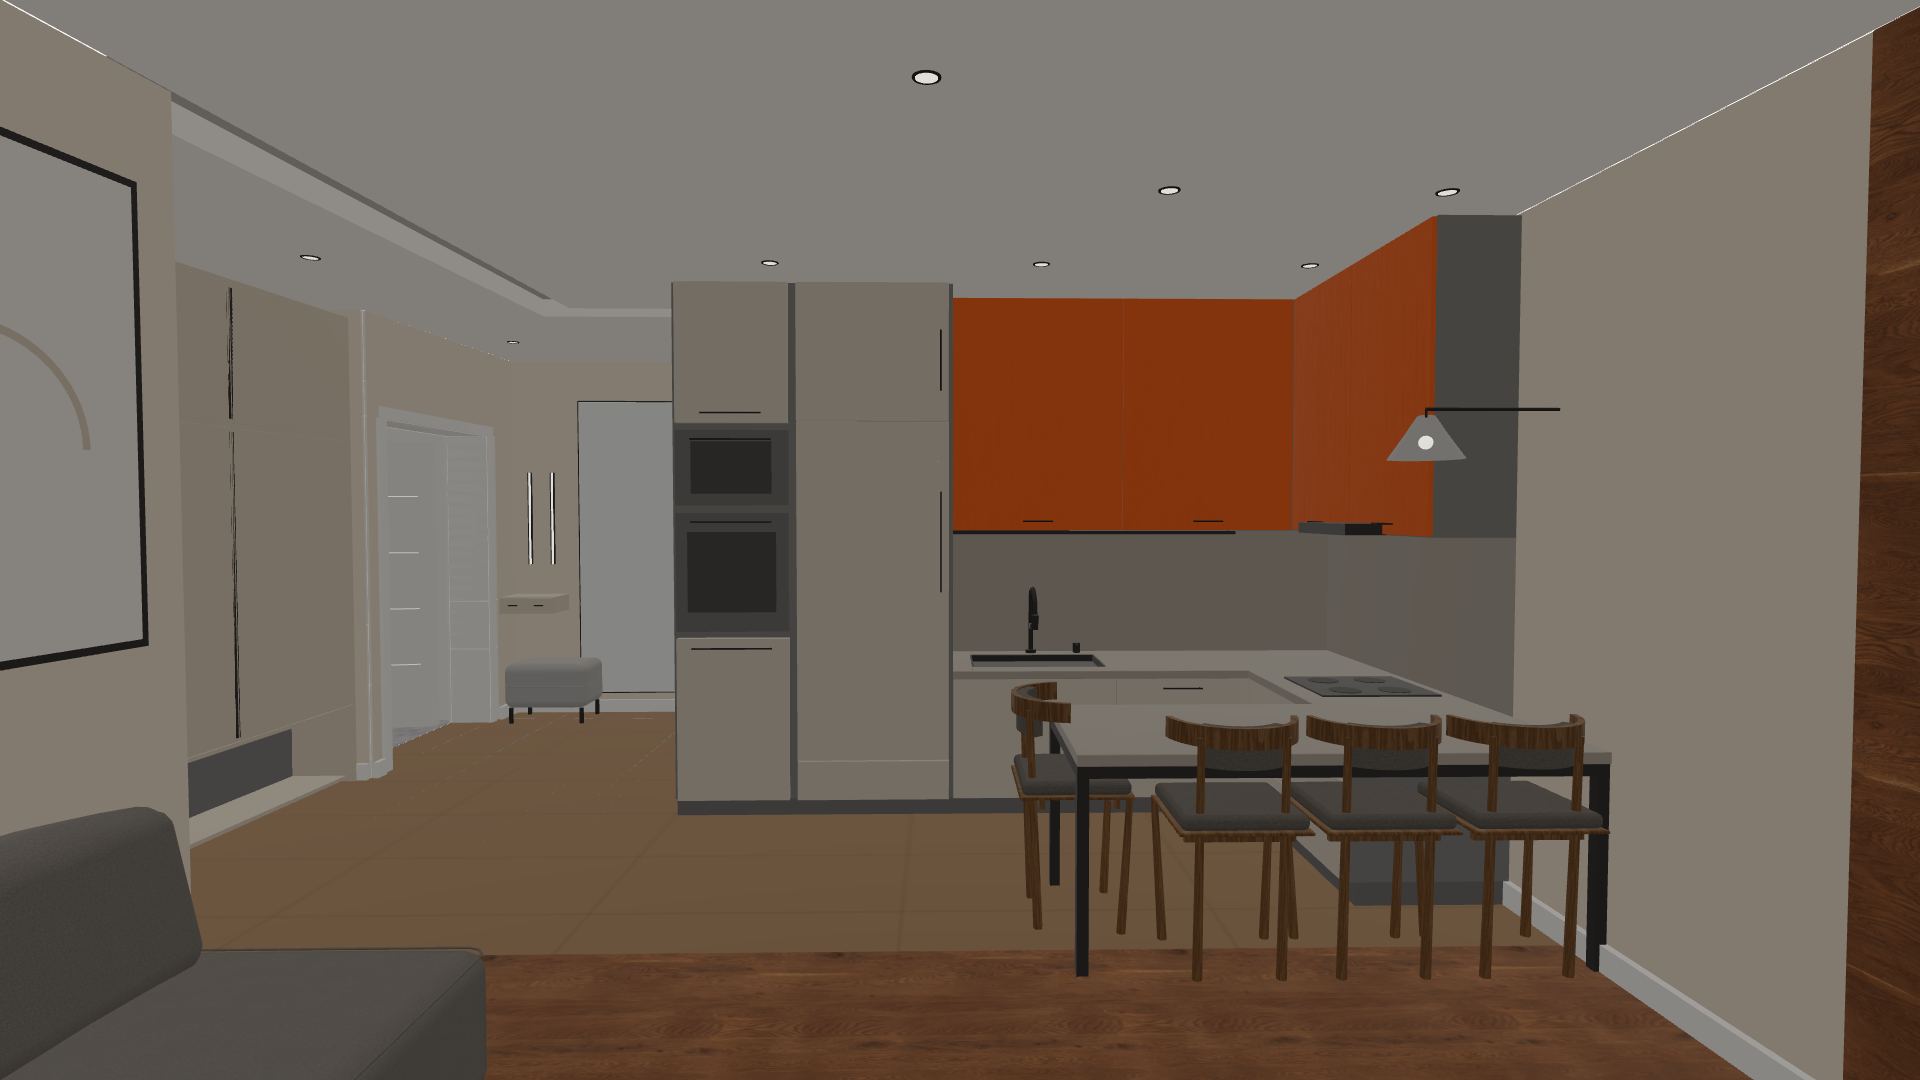
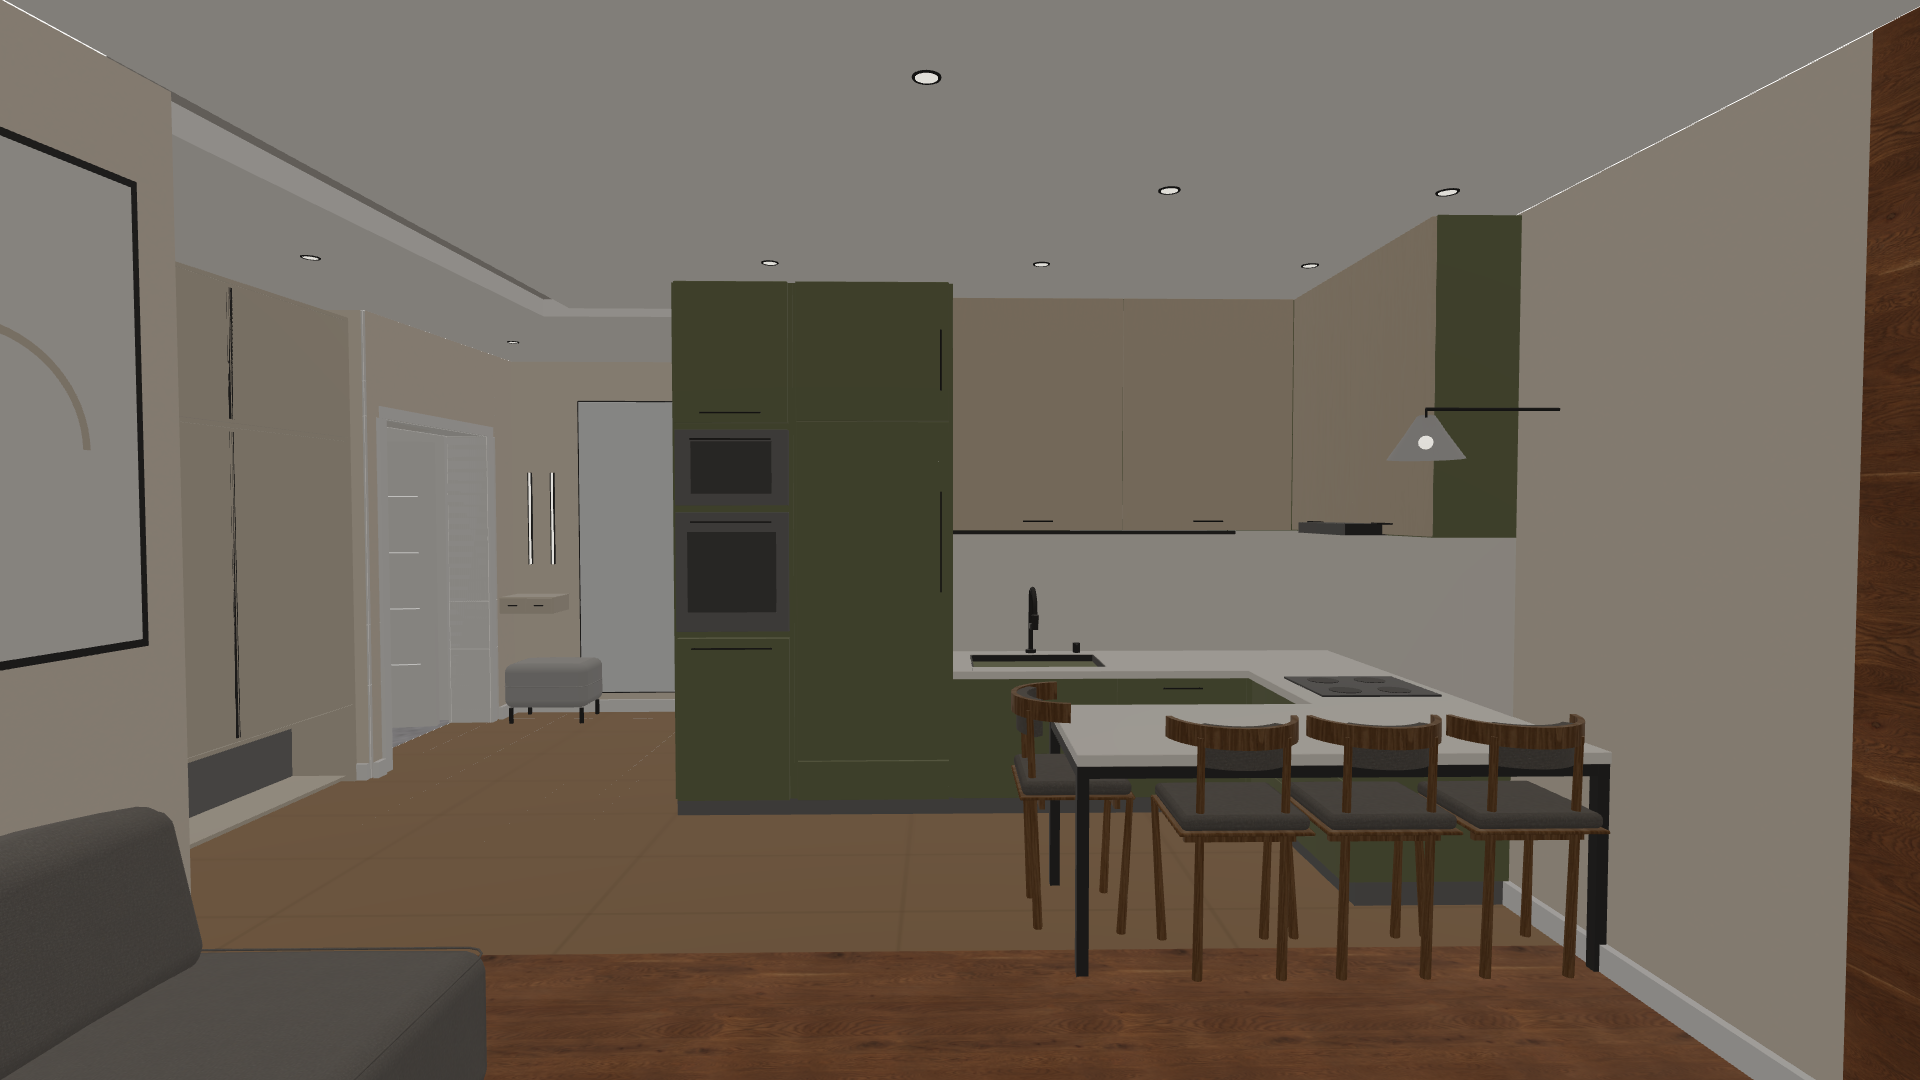
кухня 4: оливковые фасады, навесные шкафы в цвет плитки, белая HPL-столешница
Покрытия вместо hplFront/hplPanel: oliveFront на нижние ящики, пенал с
техникой, холодильник и боковины навесных шкафов; beigeFront на дверцы
навесных — тон плитки пола (среднее по textures/tile60120), рисунок дерева
только рельефом; hplWhite на столешницу и фартук.

Отдельного ORANGE_UP больше нет: бежевые дверцы заданы на самом предмете,
поэтому F–I не нужен свой coat. Дуб в вариантах D/E остаётся.

Changed region(s): [[0.3438, 0.1833, 0.8125, 0.7639], [0.6562, 0.7639, 0.7188, 0.825], [0.8125, 0.6722, 0.8438, 0.7028]]

diff --git a/items.js b/items.js
@@ -265,7 +265,7 @@ const PHYS={}; // id → boxes
   Object.keys(DECOR_TV).forEach(k=>DECOR_TV[k]=DEC.wall(DEC_TV_W[k]||2.52,DECOR_TV[k])); Object.keys(DECOR_SOFA).forEach(k=>DECOR_SOFA[k]=DEC.wall(2.51,DECOR_SOFA[k]));
   const ITEMS=[
     // ---- kitchen-living room 4 (sketch .local/R1.jpg) ----
-    {id:'kitchen',type:'кухонный блок',room:4,layer:'kitchen',pos:[8.23,KN],rot:0,size:[0.74,2.69,3.59],fixed:'wall',coat:{base:'hplFront',upper:'hplFront',top:'hplPanel',wpanel:'hplPanel'}, // 2026-09-10: matte HPL fronts, worktop and splashback one HPL panel of the same tone; carcass, plinth, hob and metal stay class twins
+    {id:'kitchen',type:'кухонный блок',room:4,layer:'kitchen',pos:[8.23,KN],rot:0,size:[0.74,2.69,3.59],fixed:'wall',coat:{base:'oliveFront',upper:'beigeFront',hdark:'oliveFront',top:'hplWhite',wpanel:'hplWhite'}, // 2026-09-11: olive fronts and carcass sides, wall-unit doors in the beige of the floor tile, worktop and splashback one white HPL panel; plinth, hob and metal stay class twins
      build(b,g){ kitchenBuild(b,g,'A'); }},
     {id:'table',type:'стол на 6 мест',room:4,layer:'kitchen',pos:[9.85,KN+0.04],rot:0,size:[0.8,0.76,1.8],coat:{table:'oakFurniture'},
      build(b,g){ b.phys(0,0.8,0.72,0.76,0,1.8); b.phys(0.05,0.75,0.64,0.72,0.05,1.75); [[0.05,0.05],[0.7,0.05],[0.05,1.7],[0.7,1.7]].forEach(([x,z])=>b.phys(x,x+0.05,0,0.72,z,z+0.05)); // proxy = the old block AABBs (top, apron, legs)
@@ -1038,7 +1038,6 @@ const PHYS={}; // id → boxes
   const led8V=L=>({pos:[8.55,2.575],size:[0.03,1.45,L],build(b){ b.led(0,0.03,1.43,1.45,0,L); }}), LED8_F=led8V(1.63), LED8_I=led8V(1.53); // F/G/H: the strip ends with the wall units at z 2.29; I: fridge column from 2.19
   const STOOL_ITEMS=Object.fromEntries(Object.entries(STOOLS).map(([id,st])=>[id,stoolSpec(st)]));
   const WOOD_UP={upper:'oakFurniture'}; // D/E (user 2026-09-10, .local/kitchen-wood): A/B as they are, wall-unit doors in oak
-  const ORANGE_UP={upper:'oakOrange'};  // F–I (user 2026-09-11): bright ginger wall-unit fronts with a faint grain — the number of doors reads from the room
   // dining table B (.local/examples2): stadium-shaped oak top 0.90×1.80 on two round drums, same centre as A so the six chairs keep their places
   const TABLE_B={pos:[9.80,KN+0.04],size:[0.90,0.76,1.80],coat:{table:'oakFurniture'},build:(b,g)=>{
     b.phys(0,0.90,0.72,0.76,0,1.80); [0.45,1.35].forEach(z=>b.phys(0.26,0.64,0,0.72,z-0.19,z+0.19));
@@ -1055,7 +1054,7 @@ const PHYS={}; // id → boxes
   const SET_D={table:TABLE_D,chair1:ch4(9.49,3.765,'W',90),chair2:ch4(10.53,3.765,'E',-90),chair3:ch4(10.01,3.245,'N',180),chair4:ch4(10.01,4.285,'S',0),chair5:null,chair6:null};
   const R4={table:{ids:['table','chair1','chair2','chair3','chair4','chair5','chair6'],V:{B:{items:{table:TABLE_B}},C:{items:SET_C},D:{items:SET_D}}},sofa:{ids:['sofa'],V:Object.fromEntries(Object.entries(SOFA4).map(([k,v])=>[k,sofaV(v,k)]))},
     kitchen:{ids:['kitchen','lamp','led8','stool1','stool2','stool3','stool4'],V:{B:{items:{kitchen:kitchenV('B',2.23),lamp:null}},D:{items:{kitchen:kitchenV('A',0.74,WOOD_UP)}},E:{items:{kitchen:kitchenV('B',2.23,WOOD_UP),lamp:null}},
-      F:{items:{kitchen:kitchenV('F',1.43,ORANGE_UP),led8:LED8_F}},G:{items:{kitchen:kitchenV('G',1.43,ORANGE_UP),led8:LED8_F}},H:{items:Object.assign({kitchen:kitchenV('H',PX1,ORANGE_UP),led8:LED8_F},STOOL_ITEMS),pick:{table:'none'}},I:{items:Object.assign({kitchen:kitchenV('I',PX1,ORANGE_UP),led8:LED8_I},STOOL_ITEMS),pick:{table:'none'}}}}, // the peninsula stands where the dining sets are: H switches the table off // lamp over the table sits inside B's fridge column: hidden in B/E; F's wall units end at z 2.29, so the LED strip stops there too
+      F:{items:{kitchen:kitchenV('F',1.43),led8:LED8_F}},G:{items:{kitchen:kitchenV('G',1.43),led8:LED8_F}},H:{items:Object.assign({kitchen:kitchenV('H',PX1),led8:LED8_F},STOOL_ITEMS),pick:{table:'none'}},I:{items:Object.assign({kitchen:kitchenV('I',PX1),led8:LED8_I},STOOL_ITEMS),pick:{table:'none'}}}}, // the peninsula stands where the dining sets are: H switches the table off // lamp over the table sits inside B's fridge column: hidden in B/E; F's wall units end at z 2.29, so the LED strip stops there too
    
     decortv:{ids:['decortv'],V:Object.fromEntries(Object.keys(DECOR_TV).map(k=>{ const w=DEC_TV_W[k]||2.52; return [k,{pos:[10.95+2.52-w,KN],size:[w,2.7,{F:0.27,G:0.22}[k]||0.02],coat:k==='D'?DEC.floorCoat:DEC.coat,build:DECOR_TV[k]}]; }))}, // F/G: shelves stand off the wall
     decorsofa:{ids:['decorsofa'],V:Object.fromEntries(Object.keys(DECOR_SOFA).map(k=>[k,{pos:[13.47,6.287],size:[2.51,2.7,0.06],coat:DEC.floorCoat,build:DECOR_SOFA[k]}]))},

diff --git a/materials.js b/materials.js
@@ -52,7 +52,7 @@ const COATINGS={
   oakFurniture:{name:'дуб, шпон мебели',     class:'wood',   dir:'textures/oakFurniture', size:[1.83,1.83], tint:[0.74,0.7,0.66]}, // grain along V = along legs/posts and the table length (z); muted against the reference
   oakFurnitureX:{name:'дуб, шпон мебели, волокна по x', class:'wood', dir:'textures/oakFurniture', size:[1.83,1.83], rotation:90, tint:[0.74,0.7,0.66]}, // M4: horizontal parts elongated along x (loggia desk); own texture object, oakFurniture keeps rotation 0
   pineFurniture:{name:'сосна, мебель светлая', class:'wood', dir:'textures/oakFurniture', size:[1.83,1.83], tint:[1.25,1.16,0.98]}, // 2026-09-10: dining tables C/D — the oak set lightened towards pine, no own texture set
-  oakOrange:  {name:'фасад рыжий, слабый рисунок дерева', class:'wood', dir:'textures/oakFurniture', size:[1.83,1.83], maps:['normal','rough'], color:0xef7d25, normalScale:0.22}, // 2026-09-11: навесные шкафы кухни F–I — albedo-карта снята, рисунок остаётся только рельефом, чтобы число дверц читалось
+  beigeFront: {name:'фасад бежевый в цвет плитки, слабый рисунок дерева', class:'wood', dir:'textures/oakFurniture', size:[1.83,1.83], maps:['normal','rough'], color:0xd1c4b1, normalScale:0.22}, // 2026-09-11: навесные шкафы кухни — тон плитки пола (среднее по textures/tile60120), albedo-карта снята, рисунок остаётся только рельефом
   cabinetPaint:{name:'крашеный МДФ, матовая эмаль', class:'cabinetPaint', size:[1,1], maps:[], color:0xd6cdbf, rough:0.42}, // 2026-09-09: no PaintedWood maps — the grain read as a strange texture; flat matte enamel like the reference wardrobe
   whiteEnamel: {name:'белая эмаль, техника',    class:'cabinetPaint', size:[1,1], maps:[], color:0xeeece8, rough:0.38}, // M4-3: washer/dryer body — the cabinetPaint set is beige, appliances are white
   wallPaint:   {name:'краска стен, тёплая светлая', class:'wallPaint', dir:'textures/wallPaint', size:[1,1], maps:['normal'], rough:0.9, color:0xe6ddd0, normalScale:0.08}, // Paint004 rough map gives glossy blotches under the environment; flat 0.9 instead,
@@ -66,8 +66,8 @@ const COATINGS={
   tile60120:   {name:'керамогранит 600×1200', class:'tile',   dir:'textures/tile60120',    size:[1.2,1.2], maps:['color','normal'], rough:0.35},
   tile6060grey:{name:'плитка 600×600, серая',  class:'grey',   dir:'textures/tile6060',     size:[0.6,0.6], maps:['color','normal'], rough:0.35, tint:[0.42,0.41,0.4]}, // M4-4: same set as tile6060 (shared textures), darkened to the grey marble of the bath west walls
   plastic:     {name:'пластик матовый',       class:'plastic', dir:'textures/plastic',     size:[0.5,0.5], maps:['normal','rough'], normalScale:0.3},
-  hplPanel:    {name:'HPL-плита, столешница и фартук', class:'facade', size:[1,1], maps:[], color:0xb3aea7, rough:0.45}, // 2026-09-10: kitchen 4 — one panel and one tone for worktop and splashback, no texture set for HPL
-  hplFront:    {name:'HPL-плита, матовый фасад', class:'facade', size:[1,1], maps:[], color:0xd0cac1, rough:0.62},       // matte fronts of the same family, a shade lighter than the worktop
+  hplWhite:    {name:'HPL-плита белая, столешница и фартук', class:'facade', size:[1,1], maps:[], color:0xeae7e1, rough:0.45}, // 2026-09-11: kitchen 4 — one white panel and one tone for worktop and splashback, no texture set for HPL
+  oliveFront:  {name:'HPL-плита оливковая, матовый фасад', class:'facade', size:[1,1], maps:[], color:0x8a8f70, rough:0.62}, // 2026-09-11: нижние ящики, пенал с техникой, холодильник и боковины навесных шкафов
 };
 const VIZ={on:false,ready:false,mode:'basic',std:new Map(),neutral:new Map(),basic:new Map(),variants:new Map(),textures:new Map(),finishCoat:{board:'oakFloor',wallPaint:'wallPaint',wood:'oakFloor',woodFloor:'oakFloor',white:'tile6060',whiteWall:'tile6060',grey:'tile6060grey'},loadErrors:[]}; // finishCoat: global coating per finish key (M2: oak boards, 60×120 stone, wall paint, oak jambs; M4: 60×60 tiles of rooms 7/8/9) // mode: basic (plan) | neutral | std (real coatings); variants: basic → Map(coating → twin)
 window.VIZ=VIZ; window.MATERIALS=MATERIALS; window.COATINGS=COATINGS;

diff --git a/render/STYLE.md b/render/STYLE.md
@@ -8,7 +8,7 @@ Style: warm modern minimalism (Organic Modern / warm Japandi) for a family of fo
 
 Palette: warm white and light beige/greige walls and ceiling as the base; olive and forest-green accents (cabinetry, textiles); light and medium-dark natural wood tones (chestnut, pine) for furniture and decor. No cold greys, no bright saturated colors, black used only as a small accent (fixtures, hardware, faucets).
 
-Materials: matte HPL cabinet fronts (no gloss); matte engineered-stone or HPL countertops and backsplash; chrome or gunmetal plumbing fixtures; a wide rectangular kitchen sink with a combined main+filtered-water faucet; tile flooring in the hallway and kitchen zone; warm-toned quartz-vinyl (SPC) flooring in living rooms; natural woven jute/sisal rugs. Wood shows its grain under a matte lacquer; stone shows depth in its veining; upholstery reads as a woven weave, never as vinyl.
+Materials: matte olive-green HPL kitchen fronts (no gloss) — base units, appliance column, fridge and the visible sides of the wall units — while the wall-unit doors are a warm beige matching the floor tile, with a faint wood grain and no colour variation; a plain white matte HPL worktop and backsplash of one tone; chrome or gunmetal plumbing fixtures; a wide rectangular kitchen sink with a combined main+filtered-water faucet; tile flooring in the hallway and kitchen zone; warm-toned quartz-vinyl (SPC) flooring in living rooms; natural woven jute/sisal rugs. Wood shows its grain under a matte lacquer; stone shows depth in its veining; upholstery reads as a woven weave, never as vinyl.
 
 Furniture: rounded, low-profile, substantial silhouettes; sofa without armrests, deep seat, dense durable upholstery (bouclé or performance-weave fabric) in a warm neutral tone; round or soft-edged coffee tables in wood or stone.
 
@@ -27,7 +27,7 @@ Openings: a plain rectangle on a wall is a doorway or a mirror as the shot notes
 Camera: an architectural lens matching the field of view stated with the dimensions below, natural depth of field, straight verticals, no fisheye or barrel distortion, sharp across the room.
 
 ## r4-door
-Kitchen-living room 22.9 m² (5.24 × 4.37 m, ceiling 2.7 m), seen from the hall doorway (camera 4.1). Layout of this series: corner kitchen along the far wall turning into the right-hand corner — a tall appliance column and a 0.80 m fridge column on the left end of the far run, then the sink run under wall units with oak fronts, then the corner and a short leg along the right-hand wall with the hob under its own oak wall unit; the worktop is 0.75 m high and runs on past the short leg and bends into a slim bar peninsula 0.80 × 1.80 m coming towards the camera — one thin worktop slab on a slender dark metal frame, open underneath, with four bar stools tucked under it (three along its room side, one at the end), the stools in the same rounded hoop-back design as the dining chairs, oak frames and beige seat pads. A full-height walnut slat panel on the right-hand wall carrying a large wall-mounted TV above a long white floating console; a low sofa without armrests in the near left corner, its back against a walnut slat panel.
+Kitchen-living room 22.9 m² (5.24 × 4.37 m, ceiling 2.7 m), seen from the hall doorway (camera 4.1). Layout of this series: corner kitchen along the far wall turning into the right-hand corner — a tall appliance column and a 0.80 m fridge column on the left end of the far run, then the sink run under wall units with matte beige fronts, then the corner and a short leg along the right-hand wall with the hob under its own beige wall unit; the worktop is 0.75 m high and runs on past the short leg and bends into a slim bar peninsula 0.80 × 1.80 m coming towards the camera — one thin worktop slab on a slender dark metal frame, open underneath, with four bar stools tucked under it (three along its room side, one at the end), the stools in the same rounded hoop-back design as the dining chairs, oak frames and beige seat pads. A full-height walnut slat panel on the right-hand wall carrying a large wall-mounted TV above a long white floating console; a low sofa without armrests in the near left corner, its back against a walnut slat panel.
 There is no dining table in this layout: the floor between the peninsula and the sofa stays open, showing large-format porcelain tile in the kitchen zone meeting oak plank flooring in the living zone with a flush joint and no threshold strip. The bright opening on the left is a doorway to the hall.
 
 ## r4-window
